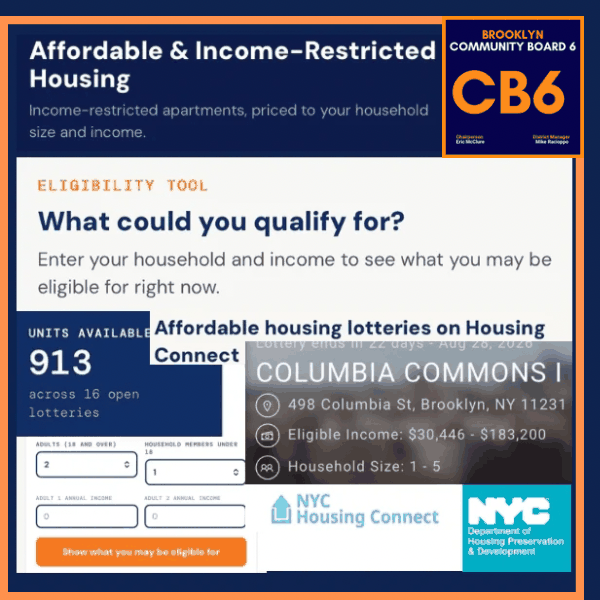
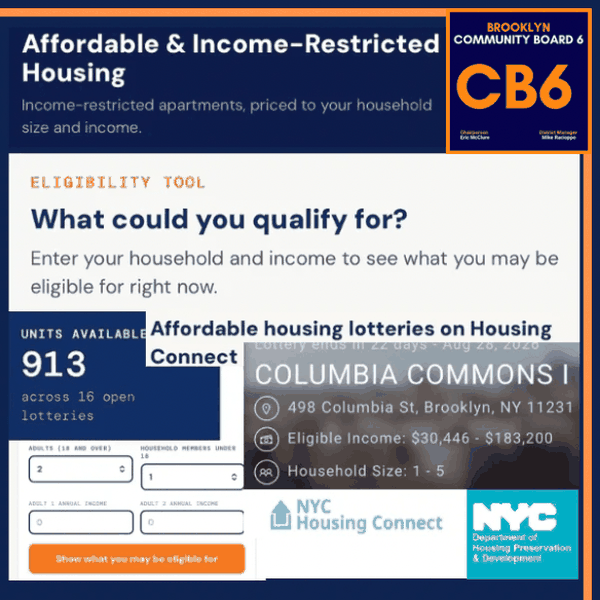
One orange border on every button

diff --git a/landuse/index.html b/landuse/index.html
@@ -39,10 +39,10 @@ h1 span{color:var(--orange)}
 .cell{display:flex;flex-direction:column;gap:6px}
 .lbl{font-size:.82rem;font-weight:800;color:var(--navy);line-height:1.25;min-height:2.1em;display:flex;align-items:flex-end}
 
-.tile{display:flex;align-items:center;justify-content:center;aspect-ratio:1/1;background:#fff;
-  border:1px solid #d6d3d1;border-radius:12px;overflow:hidden;text-decoration:none;position:relative;
-  transition:transform .15s ease,box-shadow .15s ease,border-color .15s ease}
-.tile:hover,.tile:focus-visible{transform:translateY(-2px);box-shadow:0 6px 18px rgba(0,0,0,.08);border-color:#a8a29e;outline:none}
+.tile{display:flex;align-items:center;justify-content:center;aspect-ratio:1/1;background:var(--navy);
+  border:3px solid var(--orange);border-radius:12px;overflow:hidden;text-decoration:none;position:relative;
+  transition:transform .15s ease,box-shadow .15s ease}
+.tile:hover,.tile:focus-visible{transform:translateY(-2px);box-shadow:0 6px 18px rgba(13,27,75,.18);outline:none}
 .tile img{display:block;width:100%;height:100%;object-fit:cover;padding:0}
 /* until an image exists, the tile still reads */
 .tile .fallback{display:flex;flex-direction:column;align-items:center;justify-content:center;gap:6px;

diff --git a/sw.js b/sw.js
@@ -1,5 +1,5 @@
 // CB6 & Beyond — Service Worker
-const CACHE_VERSION = 'cb6-v472';
+const CACHE_VERSION = 'cb6-v473';
 const CORE_ASSETS = [
   '/',
   '/index.html',
